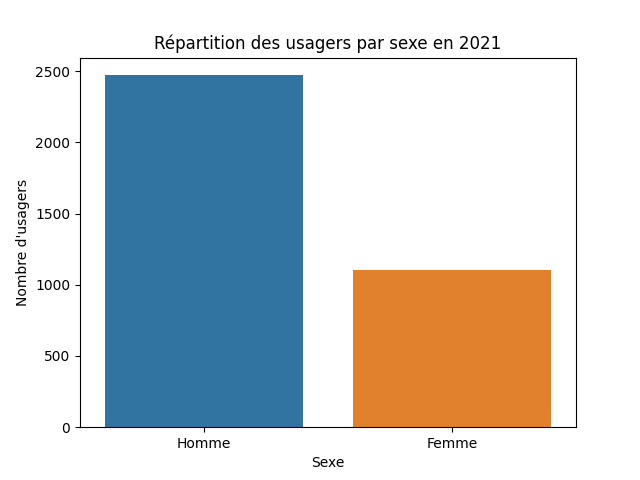
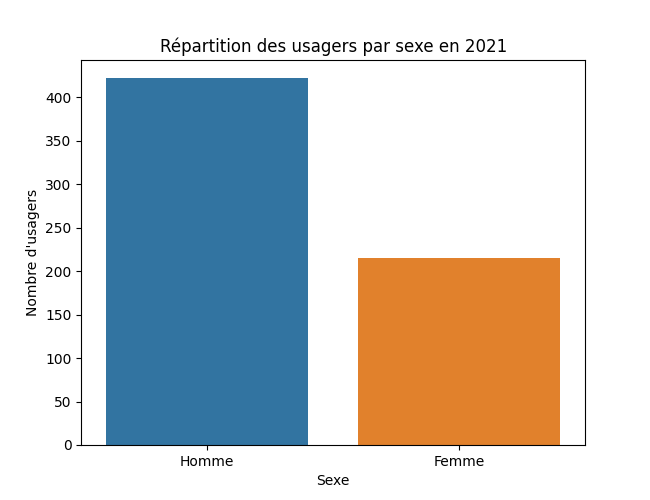
correction problèmes sur les graphes du script1

diff --git a/apiV1/script.py b/apiV1/script.py
@@ -47,6 +47,7 @@ accidents = accidents.loc[accidents['vma'] != -1]
 ################################# Graphes #################################
 
 # ===== répartition des usagers par sexe =====
+fig = plt.figure(figsize=(6.5, 5))
 sns.countplot(x='sexe', data=usagers)
 plt.title('Répartition des usagers par sexe en 2019-2020-2021')
 plt.xlabel('Sexe')
@@ -55,6 +56,7 @@ plt.xticks([0, 1], ['Homme', 'Femme'])
 plt.savefig("./public/images/image_sexe_all.png")
 # plt.show()
 
+fig = plt.figure(figsize=(6.5, 5))
 sns.countplot(x='sexe', data=usagers2021)
 plt.title('Répartition des usagers par sexe en 2021')
 plt.xlabel('Sexe')
@@ -63,6 +65,7 @@ plt.xticks([0, 1], ['Homme', 'Femme'])
 plt.savefig("./public/images/image_sexe2021.png")
 # plt.show()
 
+fig = plt.figure(figsize=(6.5, 5))
 sns.countplot(x='sexe', data=usagers2020)
 plt.title('Répartition des usagers par sexe en 2020')
 plt.xlabel('Sexe')
@@ -71,6 +74,7 @@ plt.xticks([0, 1], ['Homme', 'Femme'])
 plt.savefig("./public/images/image_sexe2020.png")
 # plt.show()
 
+fig = plt.figure(figsize=(6.5, 5))
 sns.countplot(x='sexe', data=usagers2019)
 plt.title('Répartition des usagers par sexe en 2019')
 plt.xlabel('Sexe')
@@ -82,6 +86,10 @@ plt.savefig("./public/images/image_sexe2019.png")
 
 
 # ===== type de collisions =====
+fig = plt.figure(figsize=(6.5, 8))
+ax = fig.add_subplot(1, 1, 1)
+fig.subplots_adjust(bottom=0.45)
+
 sns.countplot(x='col', data=accidents)
 plt.title('Type de collisions')
 plt.xlabel('Type de collisions')
@@ -143,148 +151,3 @@ map.add_child(heatmap)
 
 
 # faire un await dans le javascript pour attendre le dl des csv
-
-
-
-
-
-
-
-
-
-
-
-
-# save de l'ancien code
-
-# ################################# Importation des fichiers CSV #################################
-#
-# file_names = ['./data/2021/usagers-2021.csv', './data/2021/vehicules-2021.csv', './data/2021/lieux-2021.csv', './data/2021/caracteristiques-2021.csv']
-# donnees_2021 = pd.read_csv(file_names[0])
-#
-# for file in file_names[1:]:
-#     temp_df = pd.read_csv(file)
-#     donnees_2021 = pd.merge(donnees_2021, temp_df, on='id', how='inner')
-#
-# donnees_2021 = donnees_2021.sort_values(by='id').reset_index(drop=True)
-#
-#
-# file_names = ['./data/2020/usagers-2020.csv', './data/2020/vehicules-2020.csv', './data/2020/lieux-2020.csv', './data/2020/caracteristiques-2020.csv']
-# donnees_2020 = pd.read_csv(file_names[0])
-#
-# for file in file_names[1:]:
-#     temp_df = pd.read_csv(file)
-#     donnees_2020 = pd.merge(donnees_2020, temp_df, on='id', how='inner')
-#
-# donnees_2020 = donnees_2020.sort_values(by='id').reset_index(drop=True)
-#
-# file_names = ['./data/2019/usagers-2019.csv', './data/2019/vehicules-2019.csv', './data/2019/lieux-2019.csv', './data/2019/caracteristiques-2019.csv']
-# donnees_2019 = pd.read_csv(file_names[0])
-#
-# for file in file_names[1:]:
-#     temp_df = pd.read_csv(file)
-#     donnees_2019 = pd.merge(donnees_2019, temp_df, on='id', how='inner')
-#
-# donnees_2019 = donnees_2019.sort_values(by='id').reset_index(drop=True)
-#
-#
-# ################################# Modifications des données #################################
-#
-# donnees_2021 = donnees_2021.loc[donnees_2021['sexe'] != -1]
-#
-# donnees_combined = pd.concat([donnees_2019, donnees_2020, donnees_2021], ignore_index=True)
-#
-# # rempalce les "," par des ".", les ":" par des "."  et convertit en float
-# donnees_combined['lat'] = donnees_combined['lat'].str.replace(',', '.').astype(float)
-# donnees_combined['long'] = donnees_combined['long'].str.replace(',', '.').astype(float)
-# donnees_combined['hrmn'] = donnees_combined['hrmn'].str.replace(':', '.').astype(float)
-# donnees_combined = donnees_combined.loc[donnees_combined['vma'] != -1]
-#
-# ################################# Graphes #################################
-#
-# # afficher un graphe de la répartition des usagers par sexe
-# sns.countplot(x='sexe', data=donnees_combined)
-# plt.title('Répartition des usagers par sexe en 2019-2020-2021')
-# plt.xlabel('Sexe')
-# plt.ylabel('Nombre d\'usagers')
-# plt.xticks([0, 1], ['Homme', 'Femme'])
-# plt.savefig("./public/images/image_sexe_all.png")
-# # plt.show()
-#
-# sns.countplot(x='sexe', data=donnees_2021)
-# plt.title('Répartition des usagers par sexe en 2021')
-# plt.xlabel('Sexe')
-# plt.ylabel('Nombre d\'usagers')
-# plt.xticks([0, 1], ['Homme', 'Femme'])
-# plt.savefig("./public/images/im e_sexe2021.png")
-# # plt.show()
-#
-# sns.countplot(x='sexe', data=donnees_2020)
-# plt.title('Répartition des usagers par sexe en 2020')
-# plt.xlabel('Sexe')
-# plt.ylabel('Nombre d\'usagers')
-# plt.xticks([0, 1], ['Homme', 'Femme'])
-# plt.savefig("./public/images/image_sexe2020.png")
-# # plt.show()
-#
-# sns.countplot(x='sexe', data=donnees_2019)
-# plt.title('Répartition des usagers par sexe en 2019')
-# plt.xlabel('Sexe')
-# plt.ylabel('Nombre d\'usagers')
-# plt.xticks([0, 1], ['Homme', 'Femme'])
-# plt.savefig("./public/images/image_sexe2019.png")
-# # plt.show()
-#
-# #Affiche un graphe avec le type de collisions
-# sns.countplot(x='col', data=donnees_combined)
-# plt.title('Type de collisions')
-# plt.xlabel('Type de collisions')
-# plt.ylabel('Nombre de collisions')
-# plt.xticks([0, 1, 2, 3, 4, 5, 6, 7], ['Non renseigné', 'Deux véhicules - frontale', 'Deux véhicules – par l’arrière',
-#                                        'Deux véhicules – par le coté', 'Trois véhicules et plus – en chaîne',
-#                                        'Trois véhicules et plus - collisions multiples', 'Autre collision',
-#                                        'Sans collision'], rotation=90)
-# plt.savefig("./public/images/image_accidents_type_collisions.png")
-# # plt.show()
-#
-#
-# # ===== Heatmap nombre d'accidents =====
-# map = folium.Map(location=[46.2276, 2.2137], zoom_start=6)
-#
-# # Ajouter une couche de chaleur (heatmap) en utilisant les coordonnées des accidents
-# heatmap = HeatMap(data=donnees_combined[['lat', 'long']], radius=15)
-# heatmap.add_to(map)
-#
-# # Ajouter une couche de contrôle avec une légende pour la heatmap
-# folium.LayerControl().add_to(map)
-# map.add_child(heatmap)
-#
-# # map.save("./public/view/heatmapshow.html")
-# # Afficher la carte
-# # map
-#
-#
-#
-#
-# # ===== 3D Histogramme nombre d'accidents par heures et mois =====
-# fig = plt.figure()
-# ax = fig.add_subplot(111, projection='3d')
-# # Créer un histogramme en 2D des heures et des mois
-# hist, xedges, yedges = np.histogram2d(donnees_combined['hrmn'], donnees_combined['mois'], bins=(24, 12))
-# # Obtenir les coordonnées x, y et z des bords de l'histogramme
-# xpos, ypos = np.meshgrid(xedges[:-1], yedges[:-1], indexing="ij")
-# xpos = xpos.ravel()
-# ypos = ypos.ravel()
-# zpos = 0
-# # Obtenir les dimensions des bords de chaque rectangle d'histogramme
-# dx = dy = 1
-# dz = hist.ravel()
-# # Créer l'histogramme en 3D
-# ax.bar3d(xpos, ypos, zpos, dx, dy, dz, color='b', zsort='average')
-#
-# ax.set_xlabel('Heures')
-# ax.set_ylabel('Mois')
-# ax.set_zlabel('Nombre d\'accidents')
-# ax.set_title('Histogramme 3D du nombre d\'accidents par heures et mois')
-# plt.savefig("./public/images/image_3d_accidents_heures_mois.png")
-# # plt.show()
